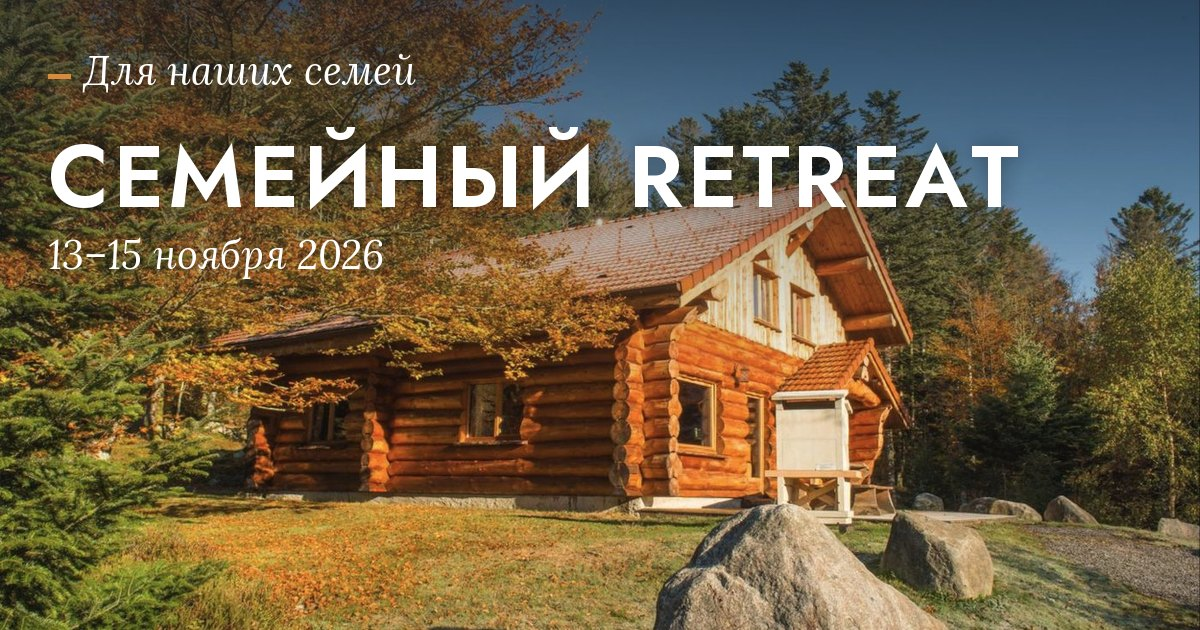
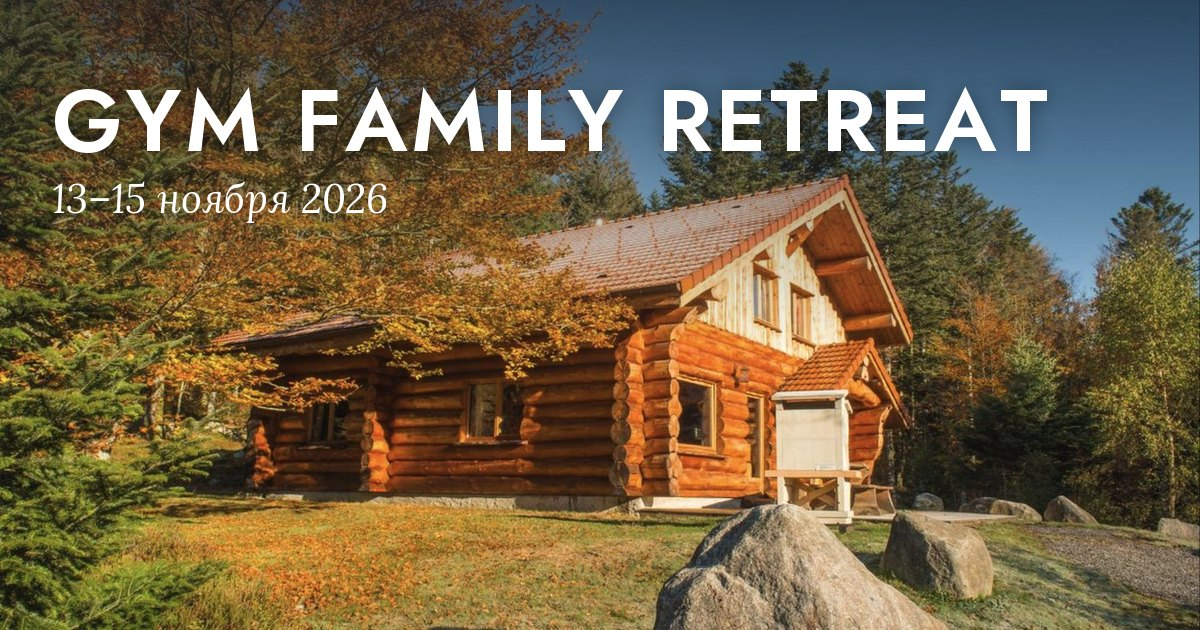
Fix

Changed region(s): [[0.0308, 0.0905, 0.8942, 0.4524]]

diff --git a/index.html b/index.html
@@ -3,20 +3,20 @@
 <head>
 <meta charset="utf-8">
 <meta name="viewport" content="width=device-width, initial-scale=1, viewport-fit=cover">
-<title>Семейный retreat 2026</title>
-<meta name="description" content="Семейный retreat 13–15 ноября 2026 в шале Le Couarôge, La Bresse: программа, проживание, что взять с собой.">
+<title>Gym Family Retreat 2026</title>
+<meta name="description" content="Gym Family Retreat 13–15 ноября 2026 в шале Le Couarôge, La Bresse: программа, проживание, что взять с собой.">
 <meta property="og:type" content="website">
 <meta property="og:url" content="https://solilin.github.io/family-retreat-2026/">
-<meta property="og:title" content="Семейный retreat · 13–15 ноября 2026">
-<meta property="og:description" content="Семейный retreat 13–15 ноября 2026 в шале Le Couarôge, La Bresse: программа, проживание, что взять с собой.">
+<meta property="og:title" content="Gym Family Retreat · 13–15 ноября 2026">
+<meta property="og:description" content="Gym Family Retreat 13–15 ноября 2026 в шале Le Couarôge, La Bresse: программа, проживание, что взять с собой.">
 <meta property="og:image" content="https://solilin.github.io/family-retreat-2026/og.jpg">
 <meta property="og:image:width" content="1200">
 <meta property="og:image:height" content="630">
-<meta property="og:image:alt" content="Семейный retreat, 13–15 ноября 2026: деревянное шале в осеннем лесу">
+<meta property="og:image:alt" content="Gym Family Retreat, 13–15 ноября 2026: деревянное шале в осеннем лесу">
 <meta property="og:locale" content="ru_RU">
 <meta name="twitter:card" content="summary_large_image">
-<meta name="twitter:title" content="Семейный retreat · 13–15 ноября 2026">
-<meta name="twitter:description" content="Семейный retreat 13–15 ноября 2026 в шале Le Couarôge, La Bresse: программа, проживание, что взять с собой.">
+<meta name="twitter:title" content="Gym Family Retreat · 13–15 ноября 2026">
+<meta name="twitter:description" content="Gym Family Retreat 13–15 ноября 2026 в шале Le Couarôge, La Bresse: программа, проживание, что взять с собой.">
 <meta name="twitter:image" content="https://solilin.github.io/family-retreat-2026/og.jpg">
 <meta name="theme-color" content="#FFFFFF">
 <link rel="preconnect" href="https://fonts.googleapis.com">
@@ -126,6 +126,9 @@
   .units { display: grid; grid-template-columns: minmax(0,1fr) minmax(0,1fr); gap: 12px; margin-top: 4px; }
   .unit { border: 1px solid var(--rule); padding: 16px; min-width: 0; }
   .unit__n { font-family: var(--font-title); font-weight: 600; font-size: 34px; line-height: 1; letter-spacing: .02em; }
+  .unit--tbd { grid-column: 1 / -1; border-style: dashed; border-color: var(--ink-soft); background: var(--surface-2); }
+  .unit__s { font-size: 13px; color: var(--ink-soft); margin-top: 8px; font-style: italic; }
+  .unit--tbd .unit__s { color: var(--ink); }
   .unit__l { font-family: var(--font-ui); font-size: 11px; font-weight: 600; letter-spacing: .1em; text-transform: uppercase; color: var(--ink-soft); margin-top: 6px; }
   .photo__text { position: relative; padding: 28px 22px; }
   .photo__eyebrow {
@@ -187,6 +190,7 @@
   .facts dd { margin: 0; }
   .facts dd span { display: block; font-size: 14px; color: var(--ink-soft); }
   .facts dl, dl.facts { margin: 0 0 16px; }
+  .h + dl.facts { margin-top: 0; border-top: none; }
 
   /* Timeline */
   .tl { list-style: none; margin: 0; padding: 0; border-top: 1px solid var(--rule); }
@@ -266,7 +270,6 @@
     <a href="#day1">Пятница</a>
     <a href="#day2">Суббота</a>
     <a href="#day3">Воскресенье</a>
-    <a href="#more">Сюрпризы</a>
     <a href="#stay">Шале</a>
     <a href="#costs">Расходы</a>
     <a href="#packing">Сборы</a>
@@ -278,15 +281,13 @@
 <section class="row" id="top">
   <div class="photo p-cover" style="--img:url(img/cover.jpg)">
     <div class="photo__text">
-      <div class="photo__eyebrow">Для наших семей</div>
-      <h1>Семейный retreat</h1>
+      <h1>Gym Family Retreat</h1>
       <div class="photo__meta">13–15 ноября 2026</div>
     </div>
   </div>
   <div class="content">
     <div class="content__inner intro">
-      <p class="intro__quote">Едем вместе: отдыхаем, играем, перезагружаемся</p>
-      <p class="intro__by">Три дня в горах, где взрослые снова играют, а дети засыпают счастливыми</p>
+      <p class="intro__quote" style="margin-bottom:32px;">Едем вместе: отдыхаем, играем, перезагружаемся</p>
       <dl class="glance">
         <div><dt>Даты</dt><dd>13–15 ноября</dd></div>
         <div><dt>Формат</dt><dd>3 дня · 2 ночи</dd></div>
@@ -309,8 +310,7 @@
   </div>
   <div class="content"><div class="content__inner">
     <h3 class="h">Адрес</h3>
-    <p class="tagline">Шале в горах Вогезов, рядом с La Bresse</p>
-    <p class="addr"><b>Le Couarôge Chalets et Appartements</b></p>
+    <p class="addr" style="margin-top:14px;"><b>Le Couarôge Chalets et Appartements</b></p>
     <p class="addr" id="addr-text">83 route de Vologne, 88250 La Bresse, France</p>
     <div class="addr-row">
       <a class="btn btn--solid" href="https://www.google.com/maps/search/?api=1&amp;query=Le+Couar%C3%B4ge+83+route+de+Vologne+88250+La+Bresse" target="_blank" rel="noopener">Google Maps</a>
@@ -337,13 +337,11 @@
   </div>
   <div class="content"><div class="content__inner">
     <h3 class="h">Организационная информация</h3>
-    <p class="tagline">Заезд, выезд и одна просьба</p>
     <dl class="facts">
       <div><dt>Заезд</dt><dd>Пятница, 13 ноября, с 15:00<span>Каждая семья приезжает в удобное время.</span></dd></div>
       <div><dt>Выезд</dt><dd>Воскресенье, 15 ноября, до 10:00<span>На месте попробуем договориться о более позднем выезде.</span></dd></div>
-      <div><dt>Шале</dt><dd>Распределение сообщим позже</dd></div>
+      <div><dt>Шале</dt><dd>Распределение сообщим позже.</dd></div>
     </dl>
-    <p class="small">Заранее подтвердить поздний выезд невозможно: всё зависит от того, будет ли бронирование этого домика на следующий день.</p>
     <div class="note note--warn"><b>Важно:</b> бронирование оформлено на нашу семью, поэтому очень просим бережно относиться к жилью и оборудованию, чтобы нам не пришлось платить лишних 500 евро.</div>
   </div></div>
 </section>
@@ -358,11 +356,11 @@
   </div>
   <div class="content"><div class="content__inner">
     <h3 class="h">День 1: Пятница</h3>
-    <p class="tagline">Заезд, гриль и костёр</p>
+    <p class="tagline">Заезд, гриль и костёр.</p>
     <ul class="tl">
-      <li><span class="tl__time">с 15:00</span><span class="tl__text">Заезд и размещение</span></li>
-      <li><span class="tl__time">с 19:00</span><span class="tl__text">Общий ужин: мангал / гриль, большой общий стол на улице или в доме, в зависимости от погоды</span></li>
-      <li><span class="tl__time">с 22:00</span><span class="tl__text">Костёр и песни под гитару / настольные игры</span></li>
+      <li><span class="tl__time">с 15:00</span><span class="tl__text">Заезд и размещение.</span></li>
+      <li><span class="tl__time">с 19:00</span><span class="tl__text">Общий ужин: мангал / гриль, большой общий стол на улице или в доме, в зависимости от погоды.</span></li>
+      <li><span class="tl__time">с 22:00</span><span class="tl__text">Костёр и песни под гитару / настольные игры.</span></li>
     </ul>
     <figure class="pic"><img src="img/friday-dinner.jpg" alt="Большой общий стол в деревянном шале у камина" loading="lazy"></figure>
   </div></div>
@@ -378,25 +376,25 @@
   </div>
   <div class="content"><div class="content__inner">
     <h3 class="h">День 2: Суббота</h3>
-    <p class="tagline">Зарядка, самовар и большое приключение</p>
+    <p class="tagline">Зарядка, самовар и большое приключение.</p>
     <ul class="tl">
-      <li><span class="tl__time">08:30</span><span class="tl__text">Гимнастическая зарядка от гимнасток для родителей</span></li>
-      <li><span class="tl__time">09:00</span><span class="tl__text">Завтрак, чайная церемония, возможно с самоваром</span></li>
-      <li><span class="tl__time">10:00–11:00</span><span class="tl__text">Небольшая общая прогулка</span></li>
-      <li><span class="tl__time">12:00–13:00</span><span class="tl__text">Обед: свободный формат, по шале или <a href="https://maps.app.goo.gl/i1VGmLCrEwkJFqvi8?g_st=ic" target="_blank" rel="noopener">кафе рядом</a></span></li>
+      <li><span class="tl__time">08:00</span><span class="tl__text">Утренняя зарядка (проводят гимнастки родителям).</span></li>
+      <li><span class="tl__time">09:00</span><span class="tl__text">Совместный завтрак, чайная церемония, возможно с самоваром.</span></li>
+      <li><span class="tl__time">10:00–11:00</span><span class="tl__text">Небольшая общая прогулка.</span></li>
+      <li><span class="tl__time">12:00–13:00</span><span class="tl__text">Обед: свободный формат, по шале или <a href="https://maps.app.goo.gl/i1VGmLCrEwkJFqvi8?g_st=ic" target="_blank" rel="noopener">кафе рядом</a>.</span></li>
       <li><span class="tl__time">14:00–17:00</span><span class="tl__text">Основная активность. Выбираем накануне вечером в зависимости от погоды:
         <ul class="opts">
-          <li><b>Поход к озеру</b></li>
-          <li><b>Luge Schlitte Mountain</b>, санная трасса</li>
-          <li><b>Bol d'Air Aventure</b>, парк с канатными трассами и другими развлечениями</li>
+          <li><b>Поход к озеру</b>.</li>
+          <li><b>Luge Schlitte Mountain</b>, санная трасса.</li>
+          <li><b>Bol d'Air Aventure</b>, парк с канатными трассами и другими развлечениями.</li>
         </ul>
-        <p class="small">В свободное время на территории: бадминтон, настольный теннис, мини-теннис, настольный футбол и, при хорошей погоде, небольшой мастер-класс по теннису для взрослых и детей.</p>
+        <p class="small">В свободное время на территории: бадминтон, настольный теннис, большой теннис, батут, настольный футбол, детская площадка, футбол, фрисби и т.д.</p>
       </span></li>
-      <li><span class="tl__time">19:00–21:00</span><span class="tl__text">Большой общий ужин</span></li>
-      <li><span class="tl__time">21:00–23:00</span><span class="tl__text">Вечерняя программа
+      <li><span class="tl__time">19:00–21:00</span><span class="tl__text">Большой общий ужин.</span></li>
+      <li><span class="tl__time">21:00–23:00</span><span class="tl__text">Вечерняя программа:
         <ul class="opts">
-          <li><b>Для детей:</b> кино, пижамная вечеринка, настольные игры</li>
-          <li><b>Для взрослых:</b> wine / beer / глинтвейн &amp; talk, настольные игры и общение</li>
+          <li><b>Для детей:</b> кино, пижамная вечеринка, настольные игры.</li>
+          <li><b>Для взрослых:</b> уютные посиделки у костра, общение, настольные игры.</li>
         </ul>
       </span></li>
     </ul>
@@ -413,34 +411,14 @@
   </div>
   <div class="content"><div class="content__inner">
     <h3 class="h">День 3: Воскресенье</h3>
-    <p class="tagline">Пробежка, завтрак и дорога домой</p>
+    <p class="tagline">Пробежка, завтрак и дорога домой.</p>
     <ul class="tl">
-      <li><span class="tl__time">08:30</span><span class="tl__text">Зарядка от мам для гимнасток, у мужчин утренняя пробежка</span></li>
-      <li><span class="tl__time">09:00</span><span class="tl__text">Завтрак по шале или общий</span></li>
-      <li><span class="tl__time">до 10:00</span><span class="tl__text">Check-out. Если получится договориться о позднем выезде, решим на месте</span></li>
-      <li><span class="tl__time">После</span><span class="tl__text">Совместная активность из того, что не взяли в субботу, например верёвочный парк. После этого разъезжаемся по домам</span></li>
+      <li><span class="tl__time">08:00</span><span class="tl__text">Утренняя зарядка (проводят мамы гимнасткам), у мужчин утренняя пробежка.</span></li>
+      <li><span class="tl__time">09:00</span><span class="tl__text">Совместный завтрак.</span></li>
+      <li><span class="tl__time">до 10:00</span><span class="tl__text">Check-out. Если получится договориться о позднем выезде, решим на месте.</span></li>
+      <li><span class="tl__time">После</span><span class="tl__text">Совместная активность из того, что не взяли в субботу, например, верёвочный парк. После этого разъезжаемся по домам.</span></li>
     </ul>
     <p class="small" style="margin-top:16px;">Программа может немного меняться в зависимости от погоды и условий на месте.</p>
-  </div></div>
-</section>
-
-<!-- Surprises -->
-<section class="row" id="more">
-  <div class="photo p-surp" style="--img:url(img/hands.jpg)">
-    <div class="photo__text">
-      <div class="photo__eyebrow">А ещё</div>
-      <h2>Что ещё будет</h2>
-    </div>
-  </div>
-  <div class="content"><div class="content__inner">
-    <h3 class="h">Сюрпризы программы</h3>
-    <p class="tagline">Без спойлеров, только названия</p>
-    <ul class="teasers">
-      <li><b>Уроки большого тенниса</b><span>Индивидуальные занятия на корте для желающих</span></li>
-      <li><b>Quiz про нас</b><span>Викторина, где все ответы сидят рядом с вами</span></li>
-      <li><b>Secret Mission</b><span>У каждого будет тайное задание на весь retreat</span></li>
-      <li><b>Campfire Stories</b><span>Истории у костра, по три минуты</span></li>
-    </ul>
     <div class="invite">
       <b>Хотите что-то провести?</b>
       <p>Мастер-класс, игру, тренировку или что-то своё. Напишите нам, мы будем очень-очень рады!</p>
@@ -450,7 +428,7 @@
 
 <!-- Stay -->
 <section class="row" id="stay">
-  <div class="photo p-stay" style="--img:url(img/stay.jpg)">
+  <div class="photo p-stay" style="--img:url(img/chalet-house.jpg)">
     <div class="photo__text">
       <div class="photo__eyebrow">Проживание</div>
       <h2>Шале</h2>
@@ -459,23 +437,23 @@
   <div class="content"><div class="content__inner">
     <div class="block">
       <h3 class="h">Наши шале</h3>
-      <p class="tagline">Два деревянных дома на всю компанию</p>
-      <div class="units">
-        <div class="unit"><div class="unit__n">8</div><div class="unit__l">мест · шале</div></div>
-        <div class="unit"><div class="unit__n">12</div><div class="unit__l">мест · шале</div></div>
+      <div class="units" style="margin-top:14px;">
+        <div class="unit"><div class="unit__n">8</div><div class="unit__l">мест · шале</div><div class="unit__s">Забронировано</div></div>
+        <div class="unit"><div class="unit__n">12</div><div class="unit__l">мест · шале</div><div class="unit__s">Забронировано</div></div>
+        <div class="unit unit--tbd"><div class="unit__n">6 / 8 / 17</div><div class="unit__l">мест · ещё одно шале</div><div class="unit__s">Подберём по финальному числу участников.</div></div>
       </div>
       <p class="small" style="margin-top:12px;">Кто в каком шале, сообщим позже.</p>
     </div>
     <div class="block">
       <h3 class="h">В каждом шале</h3>
-      <p class="tagline">Всё для дома, кухни и вечеров у камина</p>
+      <p class="tagline">Всё для дома, кухни и вечеров у камина.</p>
       <div class="chips">
         <span>Подушки и одеяла</span><span>Кухня</span><span>Холодильник</span><span>Духовка</span><span>Плита</span><span>Микроволновка</span><span>Посудомоечная машина</span><span>Кофемашина</span><span>Чайник</span><span>Тостер</span><span>Посуда и кухонные принадлежности</span><span>Стиральная машина</span><span>Сушилка</span><span>Фен</span><span>Утюг</span><span>Телевизор</span><span>Wi-Fi</span><span>Камин</span><span>Терраса / балкон</span><span>Мебель для отдыха на улице</span><span>Мангал</span>
       </div>
     </div>
     <div class="block">
       <h3 class="h">На территории</h3>
-      <p class="tagline">Спорт и игры для взрослых и детей</p>
+      <p class="tagline">Спорт и игры для взрослых и детей.</p>
       <div class="chips">
         <span>Теннисный корт</span><span>Бадминтон</span><span>Настольный теннис</span><span>Настольный футбол</span><span>Игровая комната</span><span>Батут</span><span>Детская площадка</span><span>Гараж для велосипедов</span><span>Wi-Fi</span>
       </div>
@@ -493,13 +471,13 @@
   </div>
   <div class="content"><div class="content__inner">
     <h3 class="h">Дополнительные расходы</h3>
-    <p class="tagline">Часть услуг необязательна</p>
+    <p class="tagline">Часть услуг необязательна.</p>
     <table class="price">
-      <tr><td>Постельное бельё<span class="tag">по желанию</span><span class="price__hint">Можно не платить, а привезти своё</span></td><td class="price__val">€10 / чел.</td></tr>
-      <tr><td>Полотенца<span class="tag">по желанию</span><span class="price__hint">Можно не платить, а привезти свои</span></td><td class="price__val">€5 / чел.</td></tr>
-      <tr><td>Финальная уборка<span class="tag">по желанию</span><span class="price__hint">Можно убрать шале самостоятельно и не оплачивать</span></td><td class="price__val">€90 / €130 за шале</td></tr>
-      <tr><td>Туристический сбор<span class="price__hint">Для взрослых 18+</span></td><td class="price__val">€1,10 / день</td></tr>
-      <tr><td>Туристический сбор<span class="price__hint">Premium holiday apartment</span></td><td class="price__val">€1,85 / день</td></tr>
+      <tr><td>Постельное бельё<span class="tag">по желанию</span><span class="price__hint">Можно не платить, а привезти своё.</span></td><td class="price__val">€10 / чел.</td></tr>
+      <tr><td>Полотенца<span class="tag">по желанию</span><span class="price__hint">Можно не платить, а привезти свои.</span></td><td class="price__val">€5 / чел.</td></tr>
+      <tr><td>Финальная уборка<span class="tag">по желанию</span><span class="price__hint">Можно убрать шале самостоятельно и не оплачивать.</span></td><td class="price__val">€90 / €130 за шале</td></tr>
+      <tr><td>Туристический сбор<span class="price__hint">Для взрослых 18+.</span></td><td class="price__val">€1,10 / день</td></tr>
+      <tr><td>Туристический сбор<span class="price__hint">Premium holiday apartment.</span></td><td class="price__val">€1,85 / день</td></tr>
       <tr><td>Завтрак<span class="tag">по желанию</span></td><td class="price__val">€10 / чел.</td></tr>
     </table>
   </div></div>
@@ -531,7 +509,7 @@
     </div>
     <div class="block">
       <h3 class="h">На своё шале</h3>
-      <p class="when" style="margin-top:8px;">Скорее всего пригодятся</p>
+      <p class="when" style="margin-top:8px;">Скорее всего пригодятся.</p>
       <ul class="check" data-list="chalet">
         <li>Средство для мытья посуды / мыло</li>
         <li>Таблетки для посудомоечной машины</li>
@@ -555,7 +533,7 @@
   <div class="content"><div class="content__inner">
     <div class="block">
       <h3 class="h">Два ужина на общий стол</h3>
-      <p class="when" style="margin-top:8px;">Пятница и суббота</p>
+      <p class="when" style="margin-top:8px;">Пятница и суббота.</p>
       <ul class="check" data-list="dinner">
         <li>Мясо / сосиски / рыба для гриля</li>
         <li>Овощи</li>
@@ -568,7 +546,7 @@
     </div>
     <div class="block">
       <h3 class="h">Два завтрака</h3>
-      <p class="when" style="margin-top:8px;">Суббота и воскресенье · всё на ваше усмотрение</p>
+      <p class="when" style="margin-top:8px;">Суббота и воскресенье · всё на ваше усмотрение.</p>
       <ul class="check" data-list="breakfast">
         <li>Что-нибудь к чаю / кофе</li>
         <li>Булка / хлеб</li>
@@ -583,7 +561,7 @@
     <div class="block">
       <h3 class="h">Что ещё</h3>
       <ul class="check" data-list="basics" style="margin-top:10px;">
-        <li>Питьевую воду</li>
+        <li>Питьевая вода</li>
         <li>Чай</li>
         <li>Кофе</li>
         <li>Сахар</li>
@@ -597,7 +575,7 @@
     </div>
     <div class="block">
       <h3 class="h">Посуда</h3>
-      <p class="when" style="margin-top:8px;">В шале есть посуда, столовые приборы, кастрюли, сковороды и основная кухонная утварь</p>
+      <p class="when" style="margin-top:8px;">В шале есть посуда, столовые приборы, кастрюли, сковороды и основная кухонная утварь.</p>
       <ul class="check" data-list="dishes">
         <li>Одноразовая посуда (возможно, так удобнее)</li>
         <li>Контейнеры для еды (удобно увозить остатки)</li>
